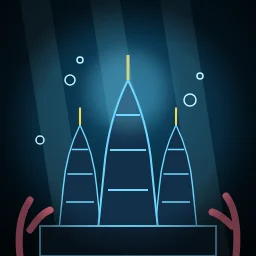
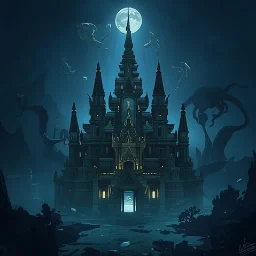
God Killer: AI-painted Makara and dungeon art; all 33 portraits now painted
Claude-Session: https://claude.ai/code/session_01YFSPjfKtyxByBnzw17V8WD

diff --git a/god-killer/img/make_art.py b/god-killer/img/make_art.py
@@ -1,6 +1,7 @@
 # Draws the God Killer portraits as SVG and renders them to god-killer/img/<set>/<NN>.webp.
 # Run from the repo root:  python3 god-killer/img/make_art.py
 # Needs Python Playwright with Chromium. Any file can later be replaced by a hand-made or AI image of the same name.
+# WARNING: it overwrites every file in those folders, including the AI-painted portraits now in the repo.
 import base64, math, os, random
 from playwright.sync_api import sync_playwright
 

diff --git a/god-killer/img/PROMPTS.md b/god-killer/img/PROMPTS.md
@@ -1,6 +1,6 @@
 # รายการภาพของ God Killer
 
-ตอนนี้มีภาพวาดเวกเตอร์ครบทุกไฟล์แล้ว (สร้างด้วย `make_art.py`) ถ้ามีภาพที่สวยกว่า ใช้ชื่อไฟล์เดิมทับได้เลย
+ตอนนี้ภาพครบทุกไฟล์แล้ว (สร้างด้วย Leonardo.ai แล้วตัดเป็น 256×256) ถ้ามีภาพที่สวยกว่า ใช้ชื่อไฟล์เดิมทับได้เลย · `make_art.py` คือภาพวาดเวกเตอร์ชุดสำรอง ถ้ารันจะเขียนทับภาพทั้งหมด
 
 วางไฟล์ภาพตามชื่อในตารางลงโฟลเดอร์นี้ (`god-killer/img/<หมวด>/<เลข>.webp`) แล้ว push ภาพจะขึ้นในเกมเอง ไม่ต้องแก้โค้ด
 ถ้ายังไม่มีไฟล์ เกมจะแสดงตราสัญลักษณ์สีแทน
